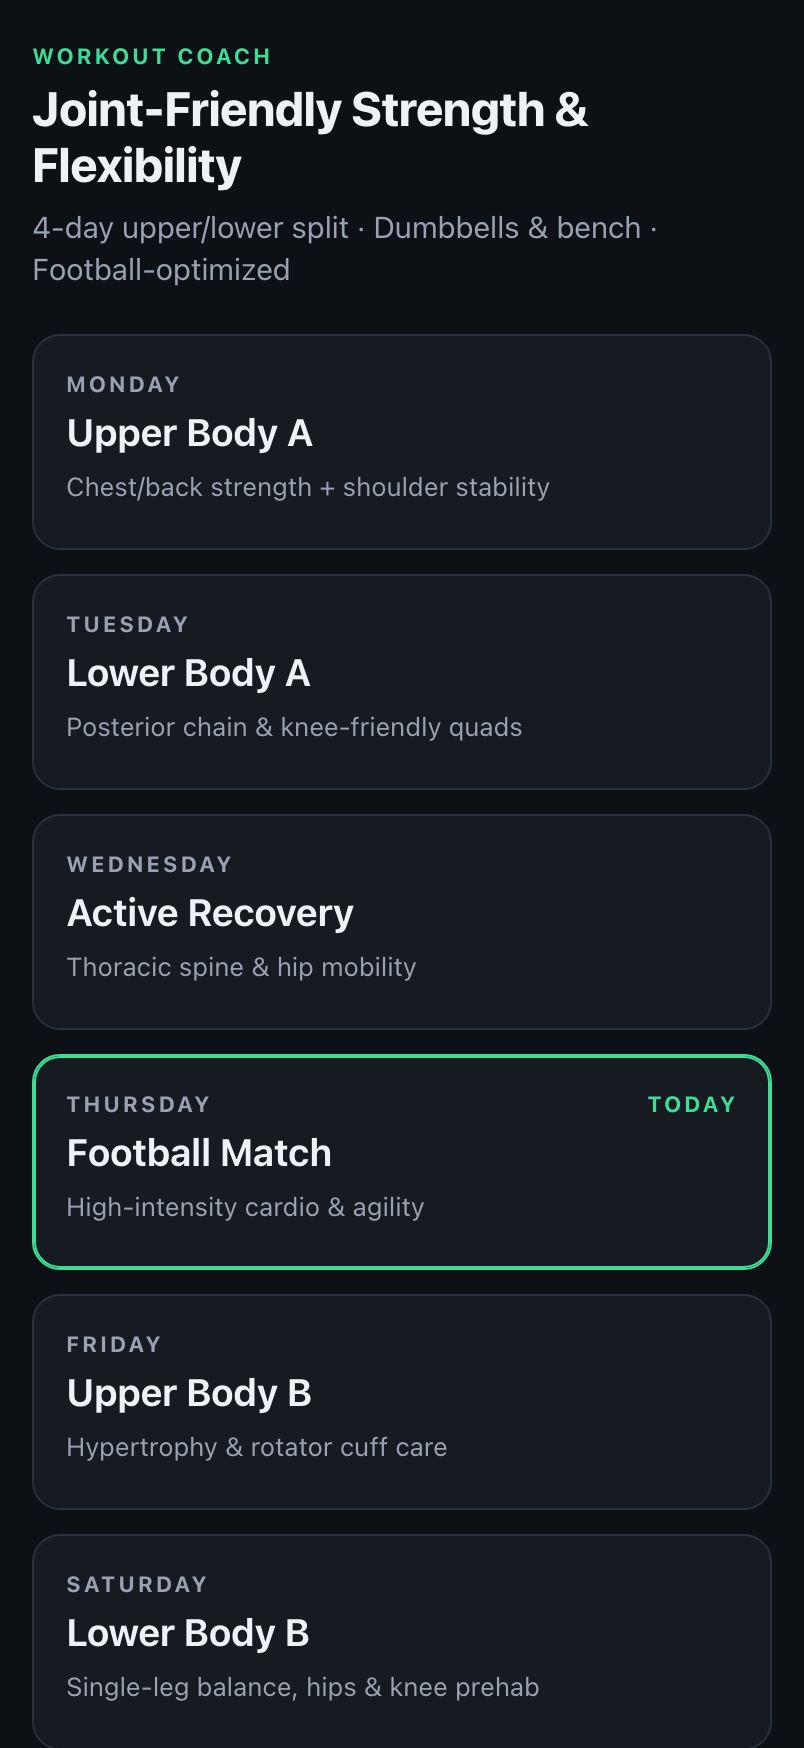
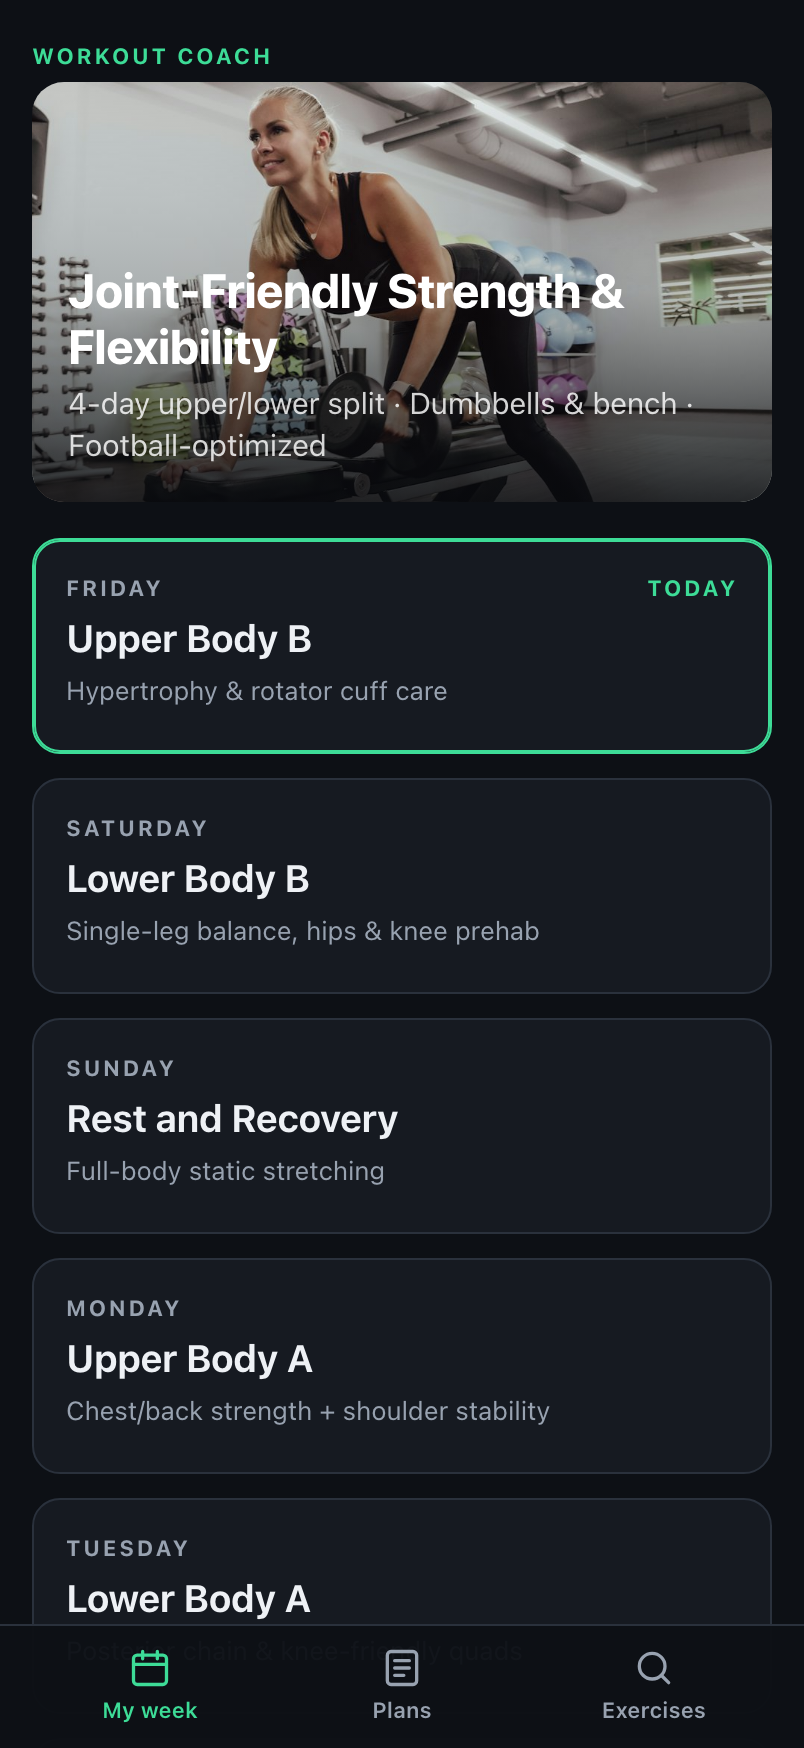
Release polish: README and screenshots (with Plans and a link-preview image), CLAUDE.md for the new rules and tools, landscape/hero tuning, review fix-screen link

diff --git a/styles.css b/styles.css
@@ -174,7 +174,7 @@ h1, h2, h3, p { margin: 0; }
   background: #fff; color: #10141a; font-size: 16px; font-weight: 750; }
 .plan-tile .mine { position: absolute; top: 14px; left: 14px; font-size: 12px; font-weight: 700; padding: 4px 10px; border-radius: 999px; background: var(--accent); color: var(--accent-ink); }
 /* a plan's preview opens on its photo, the title on a shade at its foot */
-.plan-hero::before { background: linear-gradient(0deg, rgb(8 10 14 / .85) 0%, rgb(8 10 14 / .2) 50%, transparent 100%); }
+.plan-hero::before { background: linear-gradient(0deg, rgb(8 10 14 / .92) 0%, rgb(8 10 14 / .6) 40%, rgb(8 10 14 / 0) 75%); }
 .plan-hero { display: flex; align-items: flex-end; min-height: 200px; padding: 18px; margin-bottom: 10px; }
 .plan-hero .title { margin: 0; color: #fff; }
 .plan-hero .plan-days { display: block; margin-bottom: 2px; }

diff --git a/CLAUDE.md b/CLAUDE.md
@@ -21,11 +21,15 @@ Live: https://ashwinr93.github.io/workout/ (branch `main`). Staging: https://ash
 | `app.js` | The app, one owner per concern: `Diag`, `Beep`, `Voice` (coach), `Video` (YouTube), `Sound` (who talks), `Narration` (what's said when), `Workout` (steps/timer), `Figure` (muscle map: badges, front/back figures, male/female), `Plans` (which plan is open), `UI`, `Diagnostics` (phone check) |
 | `tools/load.cjs` | Loads the four data files in Node as the browser does (used by the tools and scripts) |
 | `audio/` | One `.m4a` per phrase, named by `clipId(text)`, plus `manifest.json` (id → seconds) |
+| `photos/` | The plan photos (Unsplash, 1000 px), saved by `tools/photos.mjs` from `photo` in `programs.js`; served by the site itself |
+| `icons/`, `manifest.webmanifest` | App icon (`icon.svg`, rendered to PNGs by `tests/e2e/icons.mjs`) and the web app manifest |
+| `tools/thumbs.mjs` | Flags demos whose YouTube thumbnail is a black frame and picks a brighter still (`thumb` on the video); `--write` applies it |
+| `tools/photos.mjs` | Downloads any missing plan photo into `photos/` (run after adding/swapping one, then `credits.mjs`) |
 | `tools/credits.mjs` | Rebuilds the README's "Demo videos" credits from `library.js` and the plan photos from `programs.js` (run after adding/swapping a video or photo) |
 | `tools/make_audio.py` | Records every phrase from `allPhrases()` with the Kokoro voice `af_heart` |
 | `tests/selftest.js` | Fast self-test (virtual clock, fake YouTube); runs with `index.html?selftest` |
 | `tests/review.js` | `index.html?review=<screen>` opens one screen for screenshots (home, home-end, day, day-end, create, player, rest, finish; a plan link after `#`); nothing is saved |
-| `tests/e2e/` | Playwright: `real-browsers.mjs` (real YouTube, real clicks), `ad-scan.mjs` (ads + which demos have a voice), `review.mjs` (review screenshots, below), `screenshots.mjs` (regenerates `docs/*.png` for the README) |
+| `tests/e2e/` | Playwright: `real-browsers.mjs` (real YouTube, real clicks), `ad-scan.mjs` (ads + which demos have a voice), `review.mjs` (review screenshots, below), `screenshots.mjs` (regenerates `docs/*.png` for the README, and `docs/share.png`, the link preview), `icons.mjs` (app icon PNGs) |
 | `README.md` | Public story, usage tips and "make it yours" guide — keep it true when behaviour changes; re-run `screenshots.mjs` after visual changes |
 
 ### Exercise data (`EX` in `library.js`)
@@ -41,12 +45,15 @@ Live: https://ashwinr93.github.io/workout/ (branch `main`). Staging: https://ash
 - **Wording:** every cue must read well *and* sound natural when the coach says it — no bracketed asides, no pose-name labels ("Cow: …", "Y: …") — just the instruction (use "First… / Next… / Finally…" for sequences), no ALL-CAPS emphasis, no "DB" prefix in names. The self-test's Wording check enforces this.
 - **Quick facts** (level · equipment · joints it's easy on / loads): a preview shows each beside what it's about (level leads the top line, equipment beside the target, joints just under the safety line); the rest screen shows them on one line under "Up next"; not on the coaching screen, which is full in landscape. A joint is never both "easy on" and "loads" (self-test).
 - **Screen hierarchy:** exercise name > target pill (holds: big countdown) > Focus card > current cue (follows the voice) > quiet amber safety line; Done is the biggest button. Must fit an iPhone in landscape (~852×320 usable) and portrait. Panel = scrollable `.panel-body` + `.controls` pinned to the bottom; never let flex squeeze content (`flex-shrink:0` on body children) — trim copy/spacing instead. The top bar stays inside the safe area (Dynamic Island). The Home Screen app uses an opaque status bar (`apple-mobile-web-app-status-bar-style: black`): with `black-translucent`, iOS 26 launches the page scrolled to −62 pt and later lets content slide under the status bar.
-- **Coach pacing:** set 1: name and target, the cues spread through the set, then the Focus last as "Remember, …" (never before the movement has been described). Cues never restate the Focus — each cue adds something new. Set 2 (or the second side): the Focus is the one reminder; later sets rotate other cues. Holds spread cues then the Focus, before "Ten seconds left". Rests say what's next and "Ten seconds. Get ready."
+- **Coach pacing:** in the rest before a main exercise's first set (rests of 30 s or more), after "Next up, …" the coach says what it works: "This one works your quads and glutes." (`SAY.works`; stretches: "stretches your"). Set 1: name and target, the cues spread through the set, then the Focus last as "Remember, …" (never before the movement has been described). Cues never restate the Focus — each cue adds something new. Set 2 (or the second side): the Focus is the one reminder; later sets rotate other cues. Holds spread cues then the Focus, before "Ten seconds left". Rests say what's next and "Ten seconds. Get ready."
 - **Muscle map:** main muscles solid `#3ddc97`, helping muscles finely striped green (`#fig-help`: 45°, period 16 / stripe 7 figure units; two shades of green were too hard to tell apart), body `#4b5260`. The day card and finish screen key them as two groups: a small "MAIN" / "HELPING" label, the names in neutral text, and a 6px bar drawn like the muscles (solid / the same diagonal stripes). Muscle names are capitalised. The figure swap is a small ⇄ icon centred under the figures, no text. Badges frame themselves on the main muscles (view with the most main-muscle area). Rows: badge + "amount · main muscles"; player: main muscles in the set line and a badge beside the name/target (portrait: beside the target, name keeps the full width); rest: badge beside "Up next"; day summary card and finish screen: full front and back figures. Real muscle names on screen, never simplified. The male/female figure is switched by a quiet "Show female/male figure" link under the day card's figures (`store "figure"`): only where the figures are visible, never as a prominent control (it looked like it changed the workout) and not on the home page (meaningless before you've seen a figure) or the player; never in the plan link, never asked by the AI.
 - **Navigation:** a bottom tab bar (My week · Plans · Exercises) on top-level screens only; plan previews, the day screen and the player have no tabs. Tapping an exercise anywhere plays its preview straight away (no detail page: the owner found it an unnecessary step) and closing it returns there. My week lists today first; with no plan yet it says so and the app opens on Plans. Plans: goal chips (Lose weight · Get stronger · Move better), "Your plans" (ones made with AI) above "Ready-made plans", all as the same photo card, modelled on the Home Workout app's featured card the owner likes: the photo across the top fading into a dark base, then one statement: a big "3 days a week", the name, a white level pill ("Made with AI" for your own) with minutes and kit, and a white "View plan" button. No goal colours (owner: nobody knows what they'd mean). Photos are free Unsplash photos (bright, relatable people, not hardcore gym shots), loaded from images.unsplash.com (`photo` in programs.js; your own plans get `OWN_PHOTOS` by the most kit they use, or stretching), credited in the README by `tools/credits.mjs`; the plan's preview opens on the same photo; a plan's days open its day screen (back returns to the plan); a "create your own with AI" card at the end plus "+ Create" in the header; a plan's preview never changes your week, "Start this plan" does and asks first if you have one (switching back: your own plans are under "Your plans" on Plans, ready-made ones in their list; My week ends with one "Change or share this plan" row that opens a sheet: Change it with AI · Share (the phone's share sheet; copies the link where there isn't one) · Switch plan (opens Plans)). Exercises: search, equipment chips (Bodyweight · Bands · Dumbbells · Gym; none selected = all; a chip also shows what needs less kit) and body-area chips (areas and exercises A to Z), with a line saying exactly what's shown.
 - **Plans come only from the library.** An AI picks exercises and amounts; it never adds content. Every amount in `DOSE` has a recorded clip (standard rep ranges only: 6–8, 8–10, 10–12, 12–15, 15–20). The parser fixes what it safely can (case, spaces, near-miss ids, out-of-range numbers) and reports the rest on the "This link needs a fix" screen with a message to paste back to the AI. Keep the link format backwards compatible (`v1`); a breaking change needs `v2` with `v1` still readable.
 - **A plan lives in its link.** The last plan opened is remembered on the device (`store "plan"`, recent ones in `"plans"`); no plan → the example. Nothing about the person is stored or sent anywhere.
-- **Day screen:** the warm-up and cool-down are optional sections whose header carries the switch; switched off, their exercises aren't listed.
+- **Day screen:** the warm-up and cool-down are optional sections whose header carries the switch; switched off, their exercises aren't listed. In the player, a quiet "Skip warm-up ›" sits at the end of the panel's top line during the warm-up (never in previews) and jumps to the first main exercise.
+- **My week** opens on the plan's photo (the same one its card uses) with the title and subtitle on it, then the days, then the "Change or share this plan" row.
+- **A plan's preview** opens on its photo with the card's "3 days a week" and the title, then the level pill with minutes and kit, then its days. Your own plans (not the current one) can be removed from "Your plans" there. On a landscape phone the plan cards lie on their side (photo left, text right).
+- **Releases:** the Pages workflow stamps each copy's commit into `index.html` (`?v=` on every script and the stylesheet, and `<meta name="build">`, which the app appends to the JSON it fetches), so a phone never mixes a new page with old cached files. Locally it's `dev`.
 - **Day kinds:** workout; stretch (only stretches: section "cool", 10 s rests); activity (one activity, e.g. `sport` for the owner's football: warm-up and cool-down buttons, no player).
 - **AI prefill:** ChatGPT, Claude, Copilot, Perplexity, Grok, Le Chat take the message via `?q=` (owner-tested). Gemini can't, so it's copy-and-open — switch it when Google supports a prompt parameter. No custom GPTs/Gems/Projects (users would have to remember them).
 - Polish and clean engineering matter to the owner: no patch-on-patch fixes; restructure when needed.

diff --git a/README.md b/README.md
@@ -1,7 +1,7 @@
 # Workout Coach
 
-**A workout plan turned into a coached session you follow on your TV, and a way for anyone to get their own plan by chatting with an AI.**
-Human demo videos, a calm coach voice, timers and form cues. Your phone is the remote.
+**A workout plan turned into a coached session you follow on your TV. Pick a ready-made plan, or get your own by chatting with an AI.**
+Human demo videos, a calm coach voice, timers and form cues. Your phone is the remote. Free, no account, no ads.
 
 **Try it:** https://ashwinr93.github.io/workout/
 
@@ -21,8 +21,9 @@ So I turned the PDF into this. I open it on my iPhone, mirror the screen to the 
 The plan it opens with is mine. It covers the plan's warm-up, the day's exercises and the cool-down stretches, all using only the equipment I own. Every exercise names *when to back off*, because the whole point is to train around my joints, not through them.
 
 <p>
-  <img src="docs/home.png" width="32%" alt="Home screen: the week's days">
-  <img src="docs/day.png" width="32%" alt="A day: warm-up and cool-down toggles, then the exercises">
+  <img src="docs/home.png" width="32%" alt="My week: the plan's photo, then the week's days, today first">
+  <img src="docs/plans.png" width="32%" alt="Plans: ready-made plans as photo cards, each with its days a week, level and kit">
+  <img src="docs/day.png" width="32%" alt="A day: the muscles it works, then the warm-up (with its switch) and the exercises">
 </p>
 
 ## Using it: tips
@@ -48,20 +49,27 @@ It then opens full-screen like an app, with no browser bars.
 - **Video** plays the demo's own audio. On demos with no voice, the coach fills in.
 - Tap **Coach** again to silence everything.
 
-**Warm-up and cool-down** are on by default. Turn either off on the day screen.
+**Warm-up and cool-down** are on by default. Turn either off with the switch in its section on the day screen, or tap **Skip warm-up** in the player once you're warm.
 
-**Preview** any exercise from the day screen to learn it before you start.
+**Preview** any exercise by tapping it (on a day, or in the **Exercises** tab) to learn it before you start. The preview also shows its level, the kit it needs and which joints it's easy on or loads.
+
+**The coach tells you what each exercise works** during the rest before it ("This one works your quads and glutes"), and the muscle figure on screen lights them up, so the gym words become familiar.
 
 There are no accounts, no tracking and no ads (every demo video is checked for ads). Nothing leaves your phone except the YouTube embeds.
 
+## Ready-made plans
+
+The **Plans** tab has nine plans to start from: a first full-body plan at home, losing weight with bands and walks, first steps in a gym, building muscle with dumbbells or in a gym, barbell basics, a desk worker's posture plan, a mobility plan and my own week. They're built from published guidance (ACSM progression models, Schoenfeld's work on training volume, the WHO activity guidelines). Filter by goal, open one to see each day, and tap **Start this plan** to make it your week. Browsing never changes your week, and switching asks first.
+
 ## Get your own plan (no code needed)
 
-Tap **Create your own plan** on the home screen and pick an AI you already use (ChatGPT, Claude, Gemini, Copilot, Perplexity, Grok or Le Chat). It opens a new chat with a message that turns the AI into a coach: it asks about your goals, any aches, where you train (at home or in a gym) and how much time you have, one question at a time, then gives you a link. Tap the link and your plan opens in the app, with the same videos, coach voice and timers.
+Tap **+ Create** on the Plans tab and pick an AI you already use (ChatGPT, Claude, Gemini, Copilot, Perplexity, Grok or Le Chat). It opens a new chat with a message that turns the AI into a coach: it asks about your goals, any aches, where you train (at home or in a gym) and how much time you have, one question at a time, then gives you a link. Tap the link and your plan opens in the app, with the same videos, coach voice and timers.
 
 - **It's free.** The AI runs on your own account; this site has no server.
 - **Your plan lives in its link.** Bookmark it or add it to your Home Screen. The app also remembers the last plan you opened on that phone.
 - **Private.** Your answers stay in your AI chat. The link holds only exercise names and numbers, and the part after `#` is never sent to any server.
-- **Changing it later:** open your plan and tap **Change it with AI**. The AI gets your current plan and gives you a new link.
+- **Changing it later:** on My week, tap **Change or share this plan → Change it with AI**. The AI gets your current plan and gives you a new link. **Share** sends the link to a friend, and it opens the same plan for them.
+- **Your plans** on the Plans tab keeps the plans you've made, each with its own card, so you can switch back anytime.
 - **Cardio and sport** become activity days (a walk, a run, your football match), with the warm-up before and the stretches after.
 - If an AI makes a mistake in the link, the app says what's wrong and gives you a message to paste back into the chat.
 
@@ -79,6 +87,7 @@ If you'd rather run your own copy (your own exercises, videos and wording), fork
 | [`plan.js`](plan.js) | The plan link format, and the example plan the app opens with (`EXAMPLE_PLAN`) |
 | [`speech.js`](speech.js) | Everything the coach says, and how names are pronounced (`SPOKEN_NAMES`) |
 | [`prompt.js`](prompt.js) | The message that turns an AI chat into a coach that writes plans |
+| [`programs.js`](programs.js) | The ready-made plans on the Plans tab, and their photos (saved in `photos/` by `tools/photos.mjs`) |
 
 The easiest way is to hand the job to an AI coding assistant such as [Claude Code](https://claude.com/claude-code). [`CLAUDE.md`](CLAUDE.md) already explains how the app is built and the rules that keep it good: one movement per exercise, cues that match the demo, ad-free videos, and wording that sounds natural out loud.
 
@@ -122,7 +131,7 @@ It records only new or changed phrases (including every rep count and hold time 
 
 ### Publish it for free
 
-In your fork on GitHub, go to **Settings → Pages → Deploy from a branch → `main`, `/ (root)`**. A minute later it's live at `https://<you>.github.io/<repo>/`. Change `SITE` in `prompt.js` to that address so the AIs link to your copy.
+In your fork on GitHub, go to **Settings → Pages → Source: GitHub Actions**. The included workflow ([`.github/workflows/pages.yml`](.github/workflows/pages.yml)) publishes `main` at `https://<you>.github.io/<repo>/`, and a `staging` branch, if you make one, at `…/staging/` for trying changes on your phone first. Each release's files are stamped with its commit, so phones never mix old and new files.
 
 ### Check it
 
